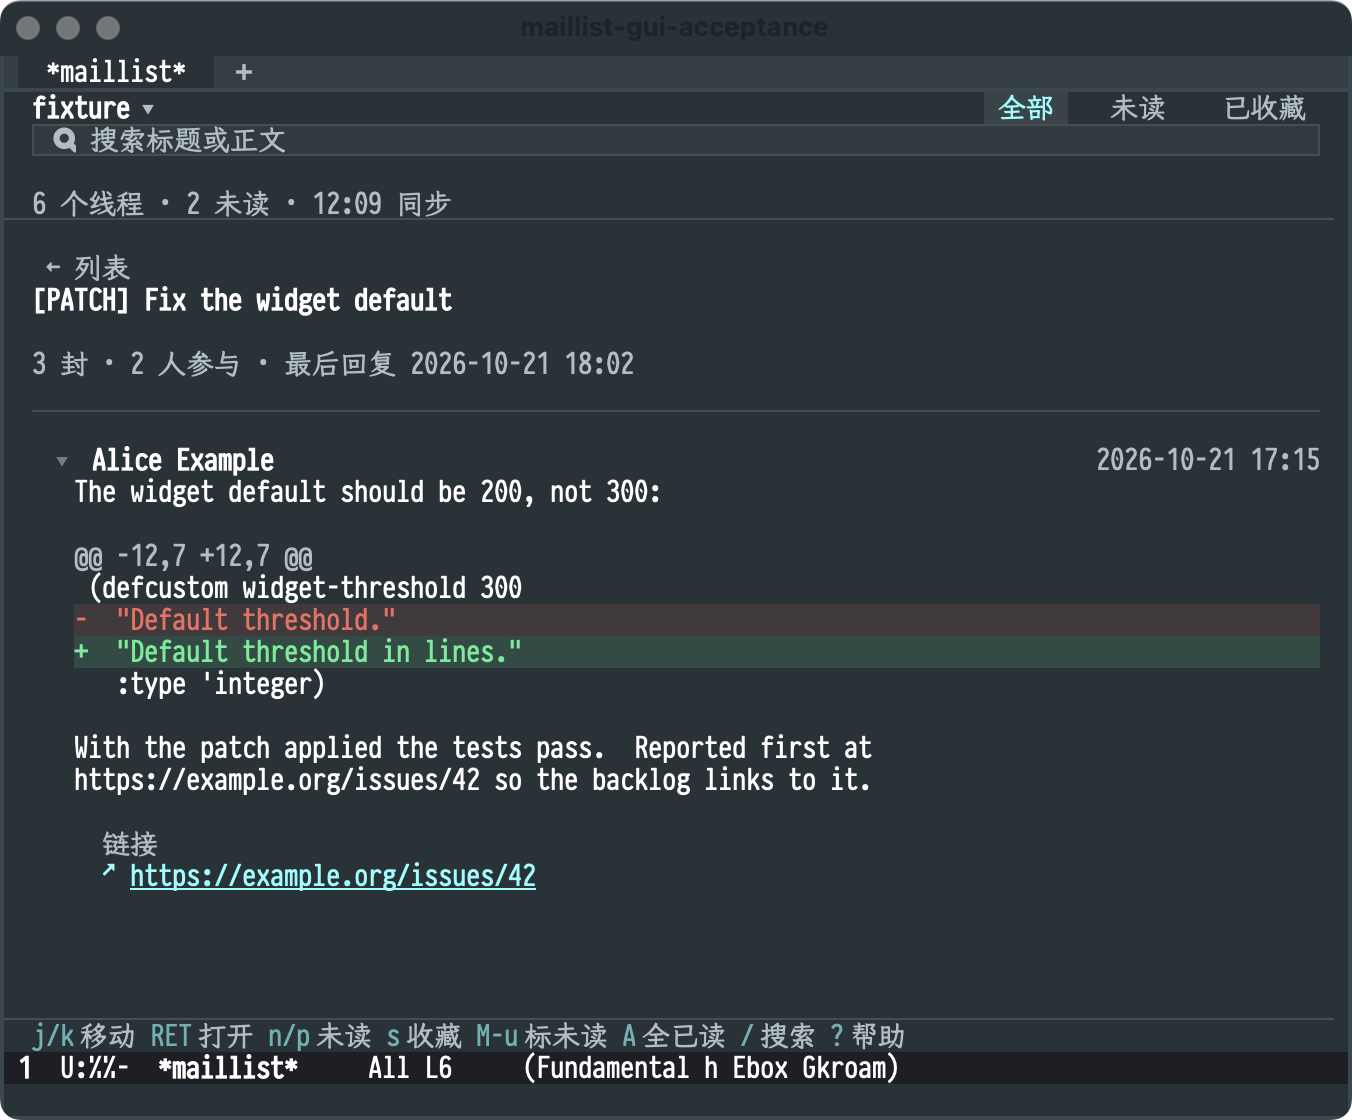
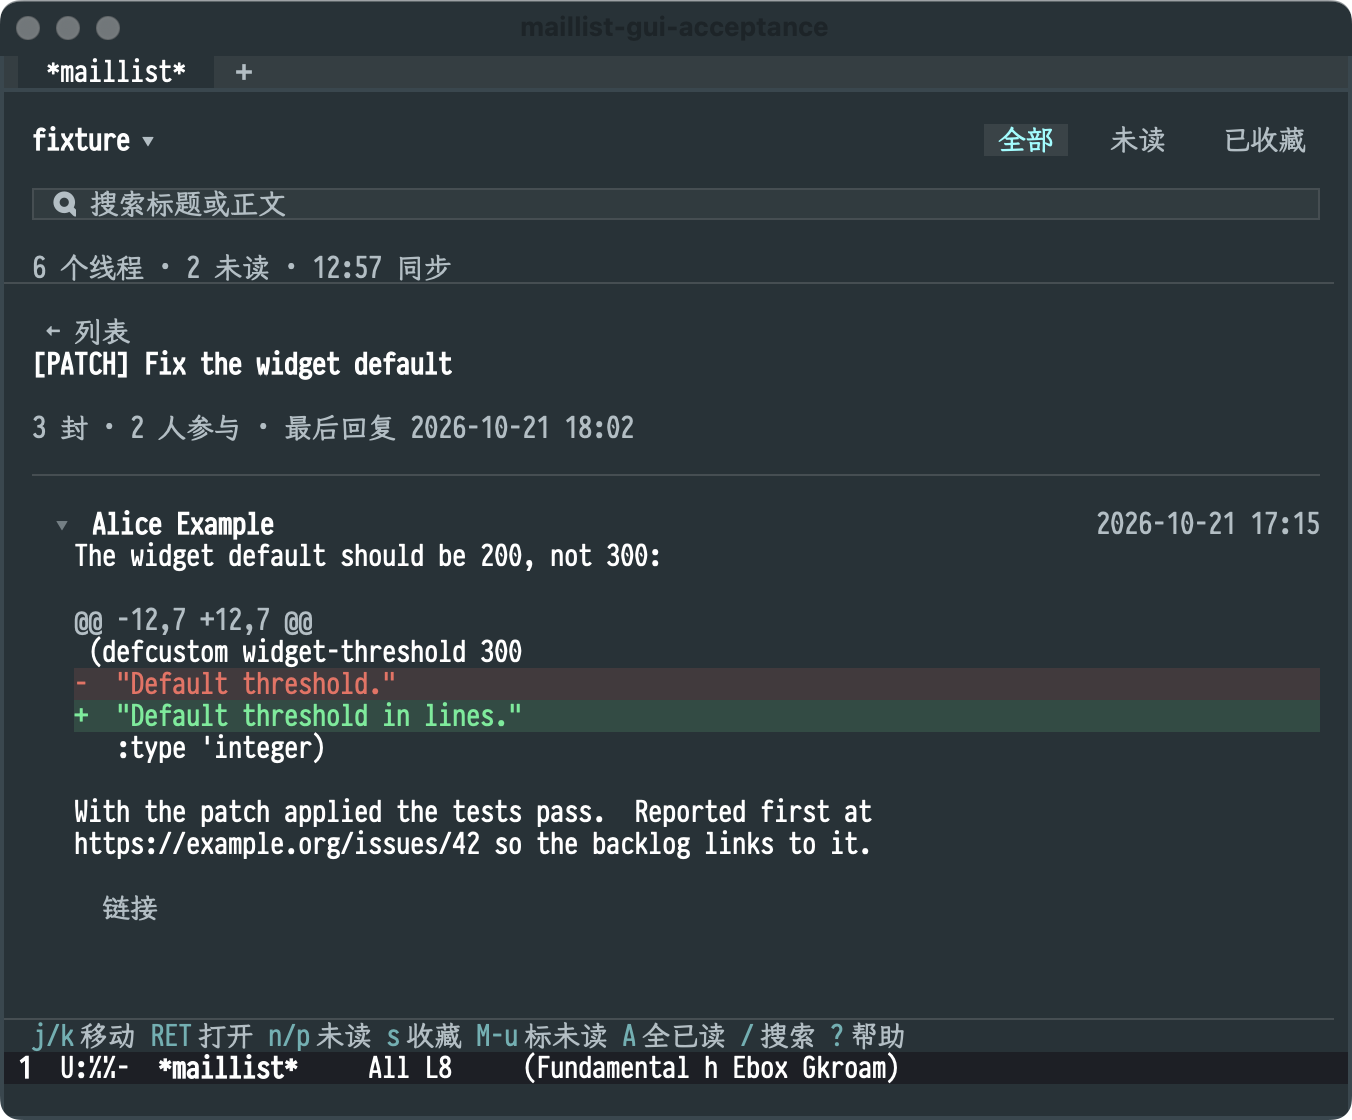
fix(maillist): restore appbar vertical breathing space in v0.4.1
Restore symmetric vertical breathing room in `maillist-appbar` (`:height '(lh 3)`
in wide mode and top/search row spacing in narrow mode) so the rectangular search
bar and list switcher sit centered rather than flush against the top edge, refresh
the three README screenshots, and bump maillist to 0.4.1.

Validation: make -C packages/maillist check (69/69 tests, 0 compile warnings, 102 API declarations) and real GUI acceptance (maillist-gui-run) passed.

diff --git a/packages/maillist/CHANGELOG.md b/packages/maillist/CHANGELOG.md
@@ -4,6 +4,14 @@ All notable user-visible changes to maillist are recorded here. The format
 follows [Keep a Changelog](https://keepachangelog.com/en/1.1.0/) and the
 project uses [Semantic Versioning](https://semver.org/).
 
+## [0.4.1] - 2026-11-22
+
+### Fixed
+
+- Restored symmetric vertical breathing space (`:height '(lh 3)` in wide mode
+  and top/search row spacing in narrow mode) in `maillist-appbar` so the search
+  bar and list header sit centered instead of flush against the top edge.
+
 ## [0.4.0] - 2026-11-22
 
 Reliable daily reading across real public-inbox archives: UTF-8 HTTP decoding,
